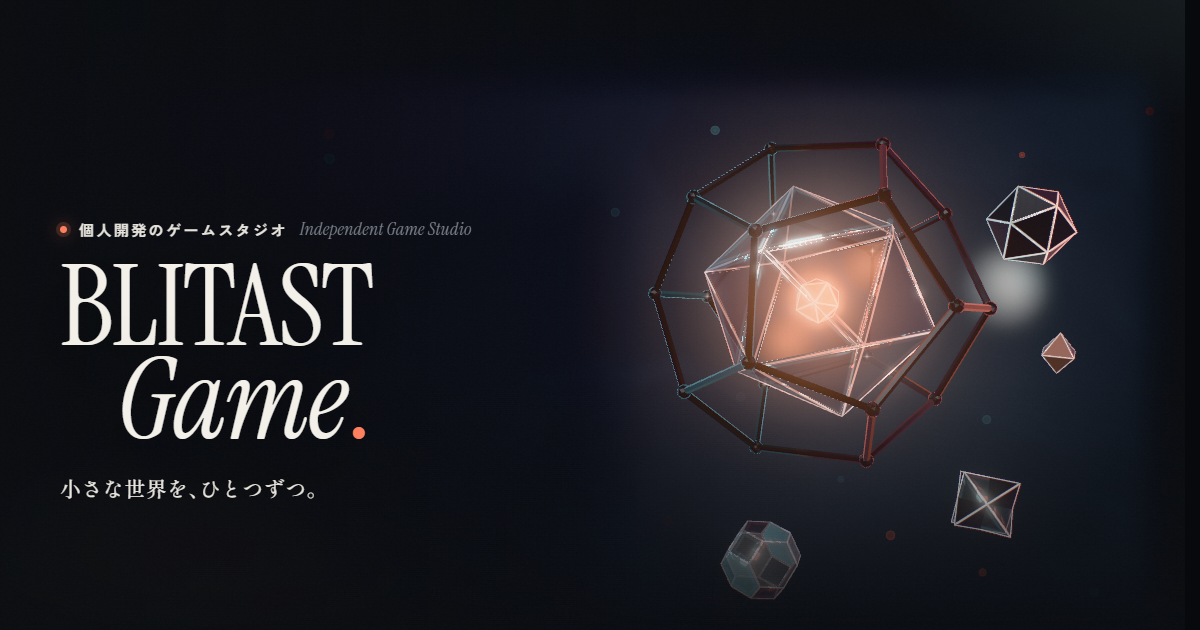
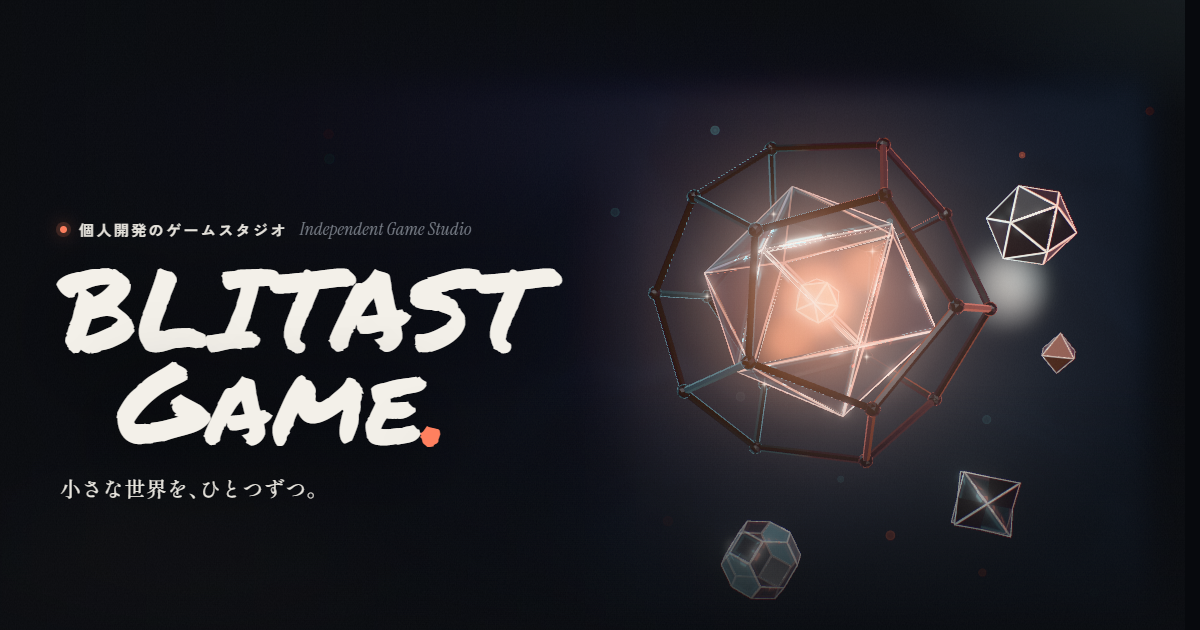
Letter the hero site name with a brush face
The big "BLITAST GAME." in the hero now uses Permanent Marker, a bold
hand-brushed face, to give the site a more personal voice. The small
header logo keeps the plain face so it stays easy to read. The share
image (og.png) is regenerated with the new lettering.

diff --git a/index.html b/index.html
@@ -27,10 +27,10 @@
     <link rel="preconnect" href="https://fonts.gstatic.com" crossorigin />
     <!-- Web fonts load without blocking the first paint (text shows in the
          system font first); only the weights the design uses are requested. -->
-    <link rel="preload" as="style" href="https://fonts.googleapis.com/css2?family=Instrument+Serif:ital@0;1&amp;family=Shippori+Mincho+B1:wght@500;800&amp;family=Zen+Kaku+Gothic+New:wght@400;700&amp;display=swap" />
-    <link rel="stylesheet" href="https://fonts.googleapis.com/css2?family=Instrument+Serif:ital@0;1&amp;family=Shippori+Mincho+B1:wght@500;800&amp;family=Zen+Kaku+Gothic+New:wght@400;700&amp;display=swap" media="print" id="font-css" />
+    <link rel="preload" as="style" href="https://fonts.googleapis.com/css2?family=Instrument+Serif:ital@0;1&amp;family=Shippori+Mincho+B1:wght@500;800&amp;family=Zen+Kaku+Gothic+New:wght@400;700&amp;family=Permanent+Marker&amp;display=swap" />
+    <link rel="stylesheet" href="https://fonts.googleapis.com/css2?family=Instrument+Serif:ital@0;1&amp;family=Shippori+Mincho+B1:wght@500;800&amp;family=Zen+Kaku+Gothic+New:wght@400;700&amp;family=Permanent+Marker&amp;display=swap" media="print" id="font-css" />
     <script>(function (l) { if (!l) return; var on = function () { l.media = "all"; }; if (l.sheet) on(); else l.addEventListener("load", on); })(document.getElementById("font-css"));</script>
-    <noscript><link rel="stylesheet" href="https://fonts.googleapis.com/css2?family=Instrument+Serif:ital@0;1&amp;family=Shippori+Mincho+B1:wght@500;800&amp;family=Zen+Kaku+Gothic+New:wght@400;700&amp;display=swap" /></noscript>
+    <noscript><link rel="stylesheet" href="https://fonts.googleapis.com/css2?family=Instrument+Serif:ital@0;1&amp;family=Shippori+Mincho+B1:wght@500;800&amp;family=Zen+Kaku+Gothic+New:wght@400;700&amp;family=Permanent+Marker&amp;display=swap" /></noscript>
     <link rel="stylesheet" href="styles.css" />
     <!-- Records a typing slip in featured.js (its line number) so the page can say
          "the data has a mistake" instead of "check your connection". -->

diff --git a/styles.css b/styles.css
@@ -325,6 +325,8 @@ a { color: inherit; text-decoration: none; }
 .ht-line { display: block; }
 .ht-italic { font-style: italic; padding-left: .5em; letter-spacing: -.01em; }
 .ht-dot { color: var(--coral); font-style: normal; }
+/* The site name is brush-lettered (the header logo stays in the plain face). */
+.hero-title, .hero-title .ht-italic { font-family: "Permanent Marker", var(--serif); font-style: normal; letter-spacing: 0; }
 .hero-tagline {
   margin: 26px 0 0;
   font: 500 clamp(20px, 1.75vw, 26px)/1.6 var(--mincho);
